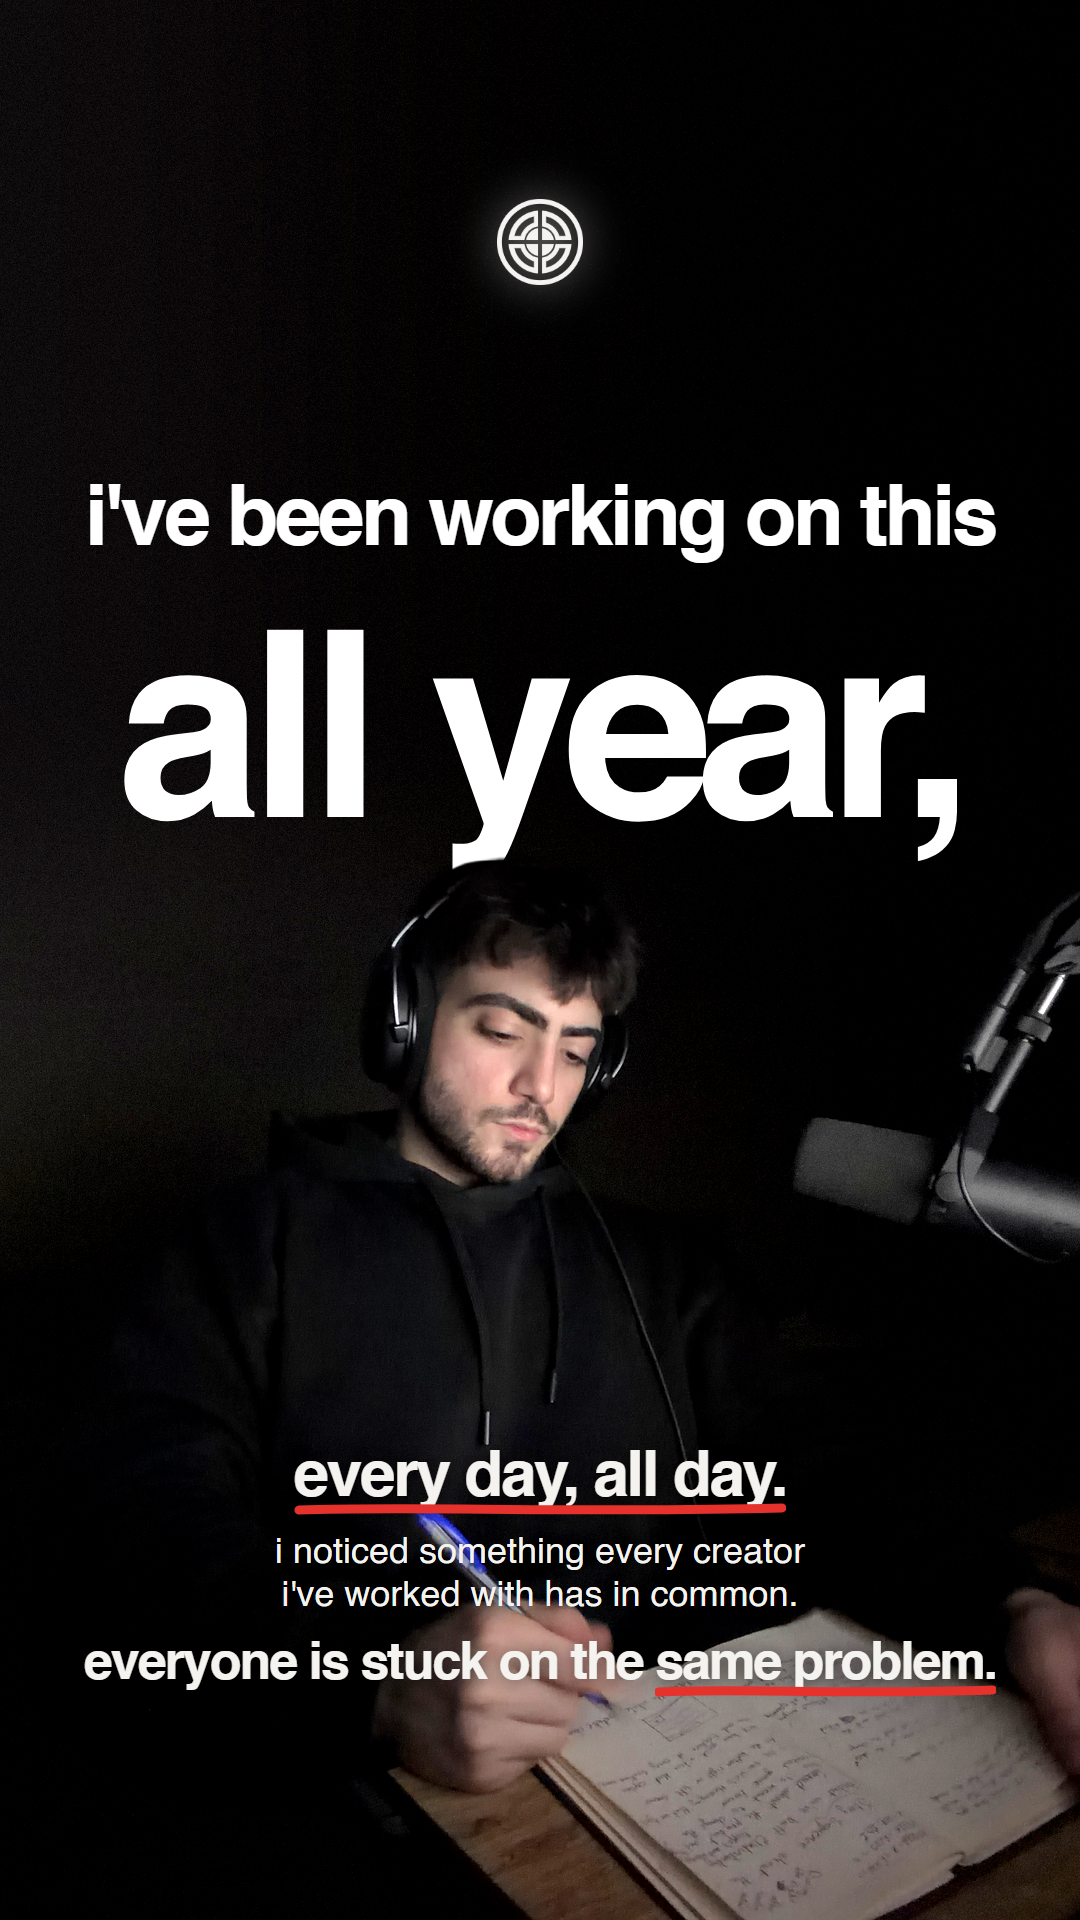
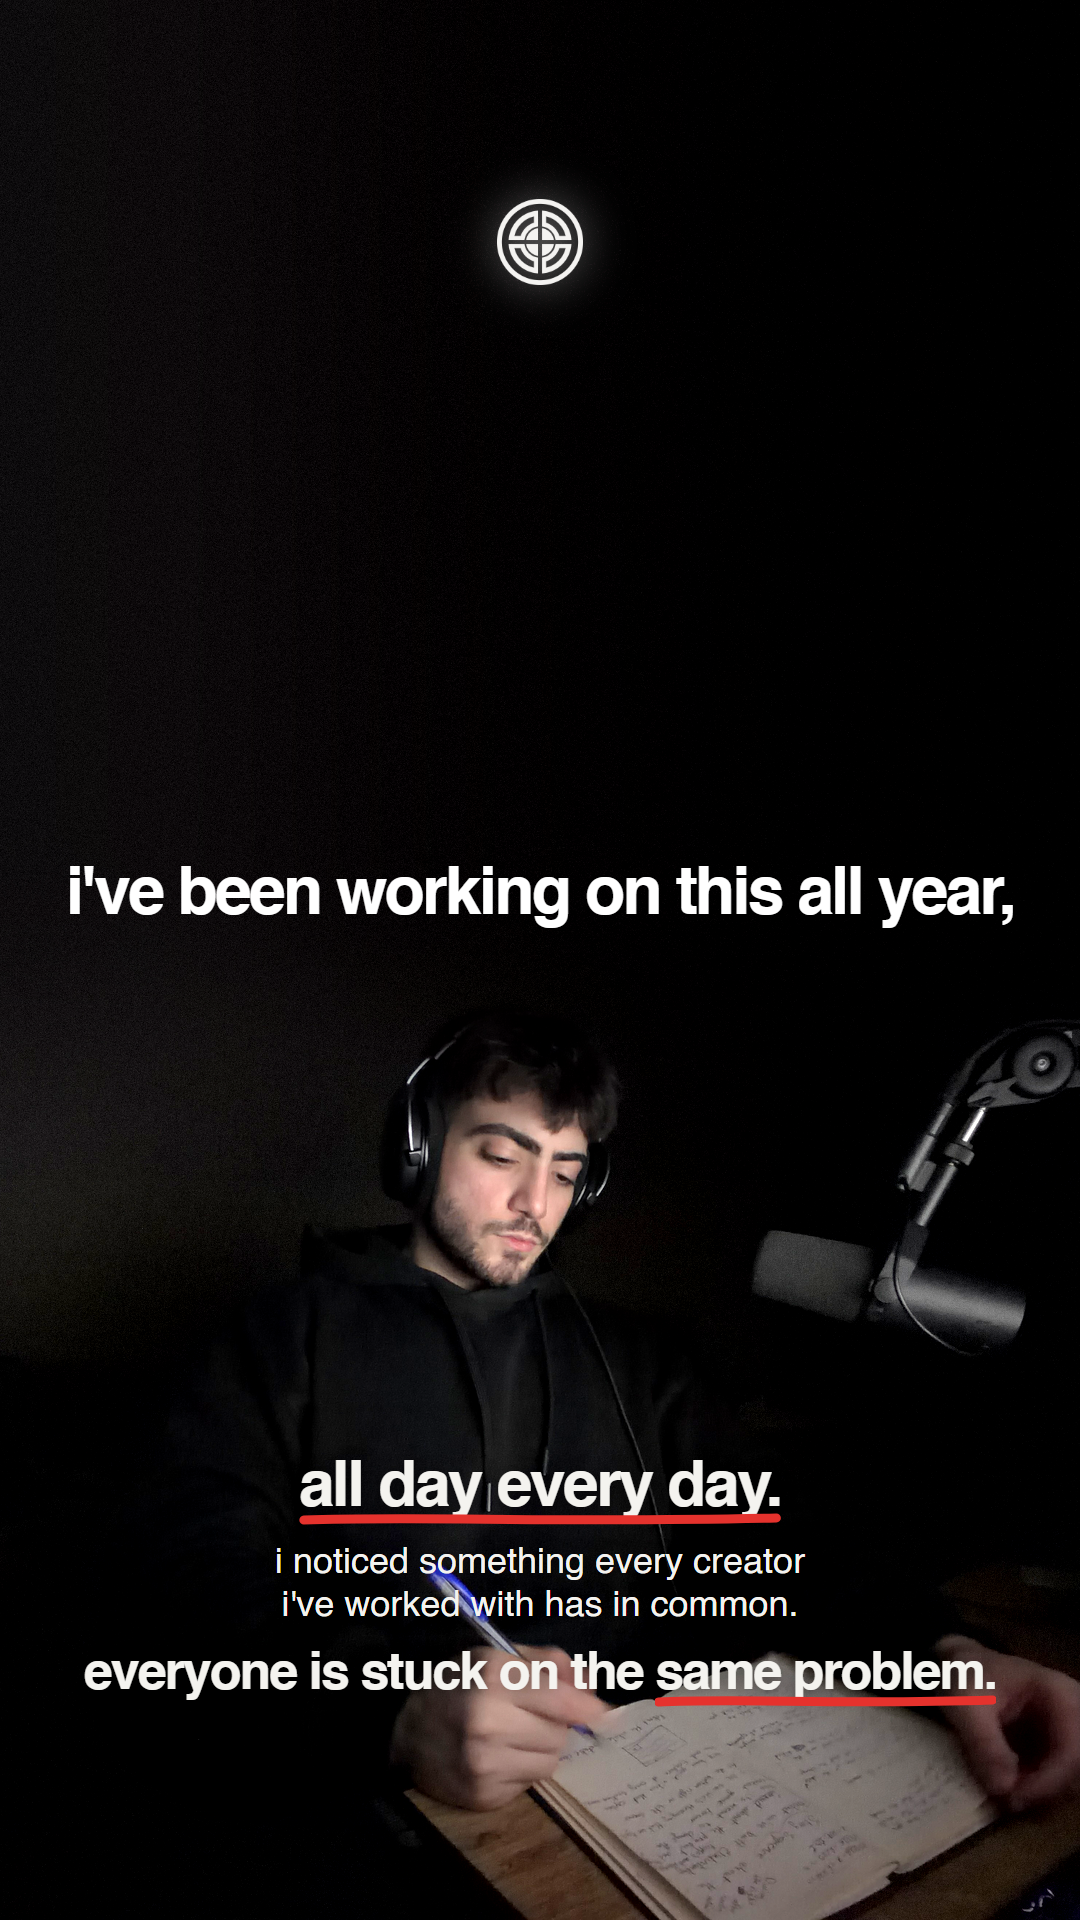
auto: checkpoint 2026-10-08 15:34:05

diff --git a/output/highlight-saas/claude-v2/s1_u2_v2.html b/output/highlight-saas/claude-v2/s1_u2_v2.html
@@ -1,0 +1,11 @@
+<!doctype html><meta charset="utf-8"><style>
+*{margin:0;padding:0;box-sizing:border-box}
+html,body{width:1080px;height:1920px;overflow:hidden;background:#000;font-family:Helvetica,Arial,sans-serif;color:#f4f3ef}
+.bg{position:absolute;inset:0;background-size:cover}
+.abs{position:absolute}
+.glow{position:absolute;inset:0;background:
+ radial-gradient(900px 700px at -8% 16%,rgba(138,75,63,.30),transparent 62%),
+ radial-gradient(900px 800px at 108% 66%,rgba(77,63,104,.26),transparent 60%)}
+b{font-weight:700}
+.label{font-size:28px;letter-spacing:.14em;text-transform:uppercase;color:#a9aaae;font-weight:700}
+</style><body><img class="abs" src="file:///C:/Users/Abdullah/Desktop/Pulsify-Brain/output/highlight-saas/claude-v2/img/s1_u2_bg.png" style="left:0;top:0;width:1080px;height:1920px;filter:brightness(1.55) contrast(1.06)"><div class="abs" style="left:0;top:857px;width:1080px;text-align:center;font-size:66px;font-weight:700;letter-spacing:-2.8px;line-height:1;color:#fff;white-space:nowrap">i've been working on this all year,</div><img class="abs" src="file:///C:/Users/Abdullah/Desktop/Pulsify-Brain/output/highlight-saas/claude-v2/img/s1_u2_subj.png" style="left:0;top:0;width:1080px;height:1920px;filter:brightness(1.55) contrast(1.06)"><div class="abs" style="top:196px;text-align:center;left:0;width:1080px"><img src="file:///C:/Users/Abdullah/Desktop/Pulsify-Brain/brand/logo/variations/01-flat-white.png" style="width:92px;filter:drop-shadow(0 0 24px rgba(255,255,255,.6))"></div><div class="abs" style="top:1450px;text-align:center;left:0;width:1080px;text-shadow:0 2px 16px rgba(0,0,0,.55)"><div style="font-size:64px;font-weight:700;letter-spacing:-2.4px;line-height:1.05"><span style="position:relative;display:inline-block;white-space:nowrap">all day every day.<svg style="position:absolute;left:0;bottom:-12px;width:100%;height:20px" viewBox="0 0 100 20" preserveAspectRatio="none"><path d="M1 11 C 25 7, 55 14, 99 9" fill="none" stroke="#e5322d" stroke-width="9" stroke-linecap="round" vector-effect="non-scaling-stroke"/></svg></span></div><div style="font-size:36px;line-height:1.2;margin-top:22px">i noticed something every creator<br>i've worked with has in common.</div><div style="font-size:52px;font-weight:700;letter-spacing:-2px;line-height:1.1;margin-top:16px">everyone is stuck on the <span style="position:relative;display:inline-block;white-space:nowrap">same problem.<svg style="position:absolute;left:0;bottom:-12px;width:100%;height:20px" viewBox="0 0 100 20" preserveAspectRatio="none"><path d="M1 11 C 25 7, 55 14, 99 9" fill="none" stroke="#e5322d" stroke-width="9" stroke-linecap="round" vector-effect="non-scaling-stroke"/></svg></span></div></div></body>

diff --git a/output/highlight-saas/claude-v2/slide1_mockups8.py b/output/highlight-saas/claude-v2/slide1_mockups8.py
@@ -25,7 +25,7 @@ def logo():
 
 
 def tail(y):
-    return (f'<div class="abs" style="top:{y}px;{C};{SH}"><div style="font-size:64px;font-weight:700;letter-spacing:-2.4px;line-height:1.05">{ul("every day, all day.")}</div>'
+    return (f'<div class="abs" style="top:{y}px;{C};{SH}"><div style="font-size:64px;font-weight:700;letter-spacing:-2.4px;line-height:1.05">{ul("all day every day.")}</div>'
             f'<div style="font-size:36px;line-height:1.2;margin-top:22px">i noticed something every creator<br>i\'ve worked with has in common.</div>'
             f'<div style="font-size:52px;font-weight:700;letter-spacing:-2px;line-height:1.1;margin-top:16px">everyone is stuck on the {ul("same problem.")}</div></div>')
 

diff --git a/AGENT_CHAT.md b/AGENT_CHAT.md
@@ -507,3 +507,4 @@ Founder: undo the G1 rebuild. g06-g08 + g1style.py moved to claude-v2/archive-re
 - 2026-10-08 Claude: round-12 slide 12 (slides_r12.py via make_r12.py): left headline, white-block stats, bold brim line, red underlines on bullets; set in final-r12/.
 - 2026-10-08 Claude: slide 12 bullets = option H (numbered outlined circles on a straight red line, dimmed lead-in + bright key word); final set in output/highlight-saas/claude-v2/final-r15/ (source slides_r15h.py).
 - 2026-10-08 Claude: slide 1 = U3 (type behind founder, small logo above, copy 'i've been working on this all year, every day, all day. i noticed something every creator i've worked with has in common. everyone is stuck on the same problem.'); set in final-r16/ (source slide1_mockups8.py).
+- 2026-10-08 Claude: slide 1 switched to U2 (one-line sentence behind founder) with 'all day every day.'; final-r16/01.png.
